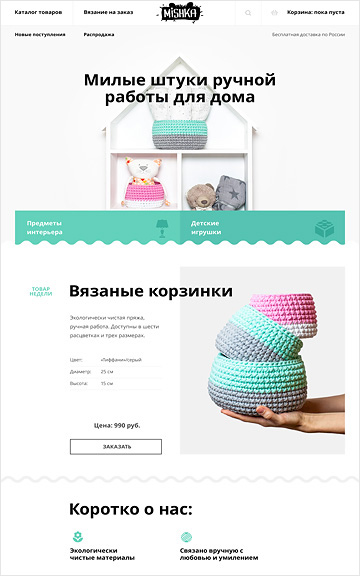
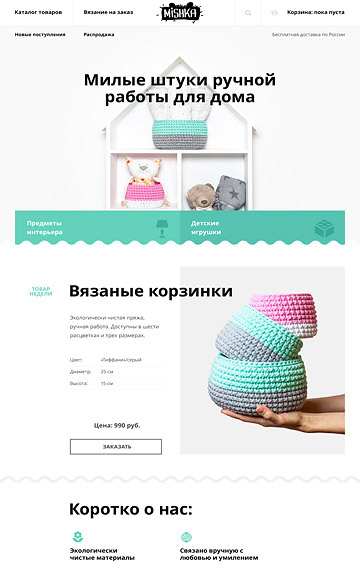
крайние изменения
не разобрался с формой, с навигацией сортировки перед формой (+что за
отступ у нее слева), картой в подвале, удалил таблицу на главной,
разметил ее ли и спан но пока не стилизовал..

diff --git a/nerds-catalog.html b/nerds-catalog.html
@@ -29,15 +29,15 @@
 	</header>
 	<main>
 		<div class="container clearfix">
-			<div class="sort-nav">
+			<div class="sort-nav clearfix">
 				<ul class="sort-list">
 					<li>Стоимость:</li>
 					<li>Cортировать:</li>
 					<li><a href="#">по цене</a></li>
 					<li><a href="#">по типу</a></li>
 					<li><a href="#">по названию</a></li>
-					<li><a href="#"><span></span></a></li>
-					<li><a href="#"><span></span></a></li>
+					<li><a href="#"><img src="img/sort-down.png"></a></li>
+					<li><a href="#"><img src="img/sort-down.png"></a></li>
 				</ul>
 			</div>	
 			<div class="column-left">
@@ -88,23 +88,111 @@
 				</form>
 			</div>
 			<div class="column-right clearfix">
-				<div>
+				<div class="catalog-item">
+					<div class="item-top">
+						<ul>
+							<li></li>
+							<li></li>
+							<li></li>
+						</ul>
+					</div>
 					<img src="img/img-sedona.jpg" alt="sedona">
+					<div class="item-bottom">
+						<b>Sedona</b>
+						<p>
+							Информационный сайт для туристов
+						</p>
+						<a href="#" class="btn">9 900 руб.</a>
+					</div>
 				</div>
-				<div>
+				<div class="catalog-item">
+					<div class="item-top">
+						<ul>
+							<li></li>
+							<li></li>
+							<li></li>
+						</ul>
+					</div>
 					<img src="img/img-pink.jpg" alt="pink">
+					<div class="item-bottom">
+						<b>Pink app</b>
+						<p>
+							Продуктовый лендинг
+							приложения для iOS и Android
+						</p>
+						<a href="#" class="btn">9 900 руб.</a>
+					</div>
 				</div>
-				<div>
+				<div class="catalog-item">
+					<div class="item-top">
+						<ul>
+							<li></li>
+							<li></li>
+							<li></li>
+						</ul>
+					</div>
 					<img src="img/img-barbershop.jpg" alt="barbershop">
+					<div class="item-bottom">
+						<b>Barbershop</b>
+						<p>
+							Сайт салоны красоты.
+							Для мужчин, да.
+						</p>
+						<a href="#" class="btn">9 900 руб.</a>
+					</div>
 				</div>
-				<div>
+				<div class="catalog-item">
+					<div class="item-top">
+						<ul>
+							<li></li>
+							<li></li>
+							<li></li>
+						</ul>
+					</div>
 					<img src="img/img-mishka.jpg" alt="mishka">
+					<div class="item-bottom">
+						<b>Mishka</b>
+						<p>
+							Интернет-магазин 
+							вязаных игрушек
+						</p>
+						<a href="#" class="btn">9 900 руб.</a>
+					</div>
 				</div>
-				<div>
+				<div class="catalog-item">
+					<div class="item-top">
+						<ul>
+							<li></li>
+							<li></li>
+							<li></li>
+						</ul>
+					</div>
 					<img src="img/img-aplus.jpg" alt="aplus">
+					<div class="item-bottom">
+						<b>A plus</b>
+						<p>
+							Лендинг курсов повышения квалификации
+						</p>
+						<a href="#" class="btn">9 900 руб.</a>
+					</div>
 				</div>
-				<div>
+				<div class="catalog-item">
+					<div class="item-top">
+						<ul>
+							<li></li>
+							<li></li>
+							<li></li>
+						</ul>
+					</div>
 					<img src="img/img-kvast.jpg" alt="kvast">
+					<div class="item-bottom">
+						<b>Kvast</b>
+						<p>
+							Промо-сайт производителя
+							крафтового кваса
+						</p>
+						<a href="#" class="btn">9 900 руб.</a>
+					</div>
 				</div>
 			</div>
 			<div class="paginator-main">

diff --git a/css/style.css b/css/style.css
@@ -47,6 +47,7 @@ header .container {
 
 .nav-header ul {
 	float: right;
+	margin-top: 35px;
 }
 
 .nav-header li {
@@ -314,9 +315,7 @@ header .container {
 }
 
 .sort-list li {
-	display: inline-block;
-	margin: 0;
-	padding: 0;
+	float: left;
 }
 
 .sort-list a {
@@ -330,12 +329,11 @@ header .container {
 	font-size: 18px;
 	line-height: 18px;
 	font-weight: 700;
-	margin-right: 240px;
 }
 
 .sort-list li:nth-child(3),
 .sort-list li:nth-child(4) {
-	margin-right: 30px;
+	
 }
 
 /* стили column left каталога */
@@ -352,14 +350,68 @@ header .container {
 	width: 760px;
 }
 
-.column-right div {
+.catalog-item {
+	position: relative;
 	float: left;
-	margin-right: 40px;
+	margin-right: 34px;
 	margin-bottom: 40px;
+	border: 1px solid rgba(233, 233, 233, 1);
+	box-sizing: border-box;
+	line-height: 0;
 }
 
-.column-right div:nth-child(2n) {
+.catalog-item:nth-child(2n) {
 	margin-right: 0px;
+}
+
+.item-top {
+	min-height: 40px;
+	background-color: rgba(233, 233, 233, 1);
+}
+
+.item-top ul {
+	list-style-type: none;
+	margin: 0;
+	margin-left: 10px;
+	padding: 0;
+}
+
+.item-top li {
+	display: inline-block;
+	width: 15px;
+	height: 15px;
+	border-radius: 50%;
+	background-color: #ffffff;
+	margin-left: 10px;
+	margin-top: 12px;
+}
+
+.item-bottom {
+	position: absolute;
+	bottom: 0px;
+	width: 100%;
+	padding-top: 30px;
+	padding-bottom: 30px;
+	text-align: center;
+	vertical-align: middle;
+	background-color: rgba(238, 238, 238, 1);
+}
+
+.item-bottom .btn {
+	width: 200px;
+	margin: 0 auto;
+	padding: 20px 0;
+}
+
+.item-bottom b {
+	text-transform: uppercase;
+	font-size: 18px;
+	line-height: 30px; 
+}
+
+.item-bottom p {
+	line-height: 18px;
+	color: #666666;
 }
 
 .paginator-main {
